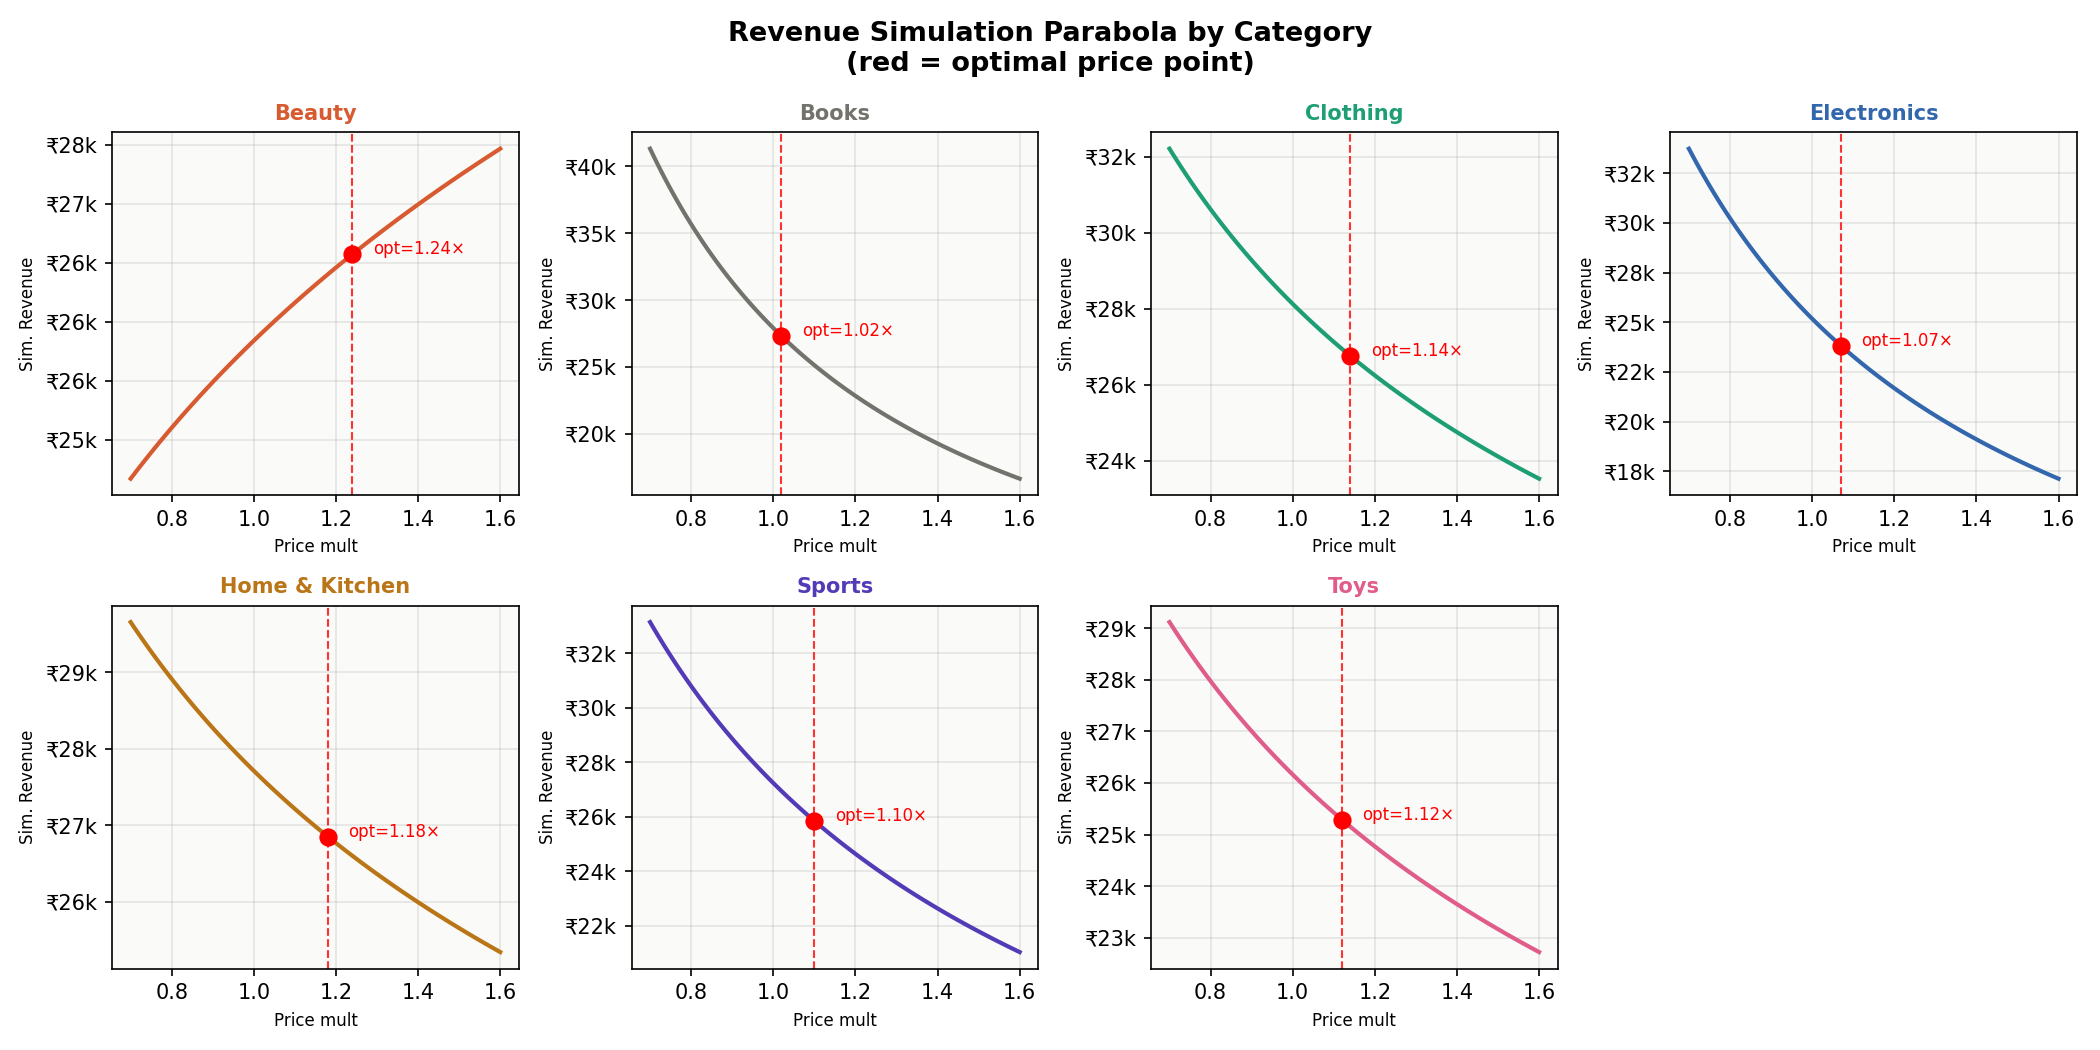
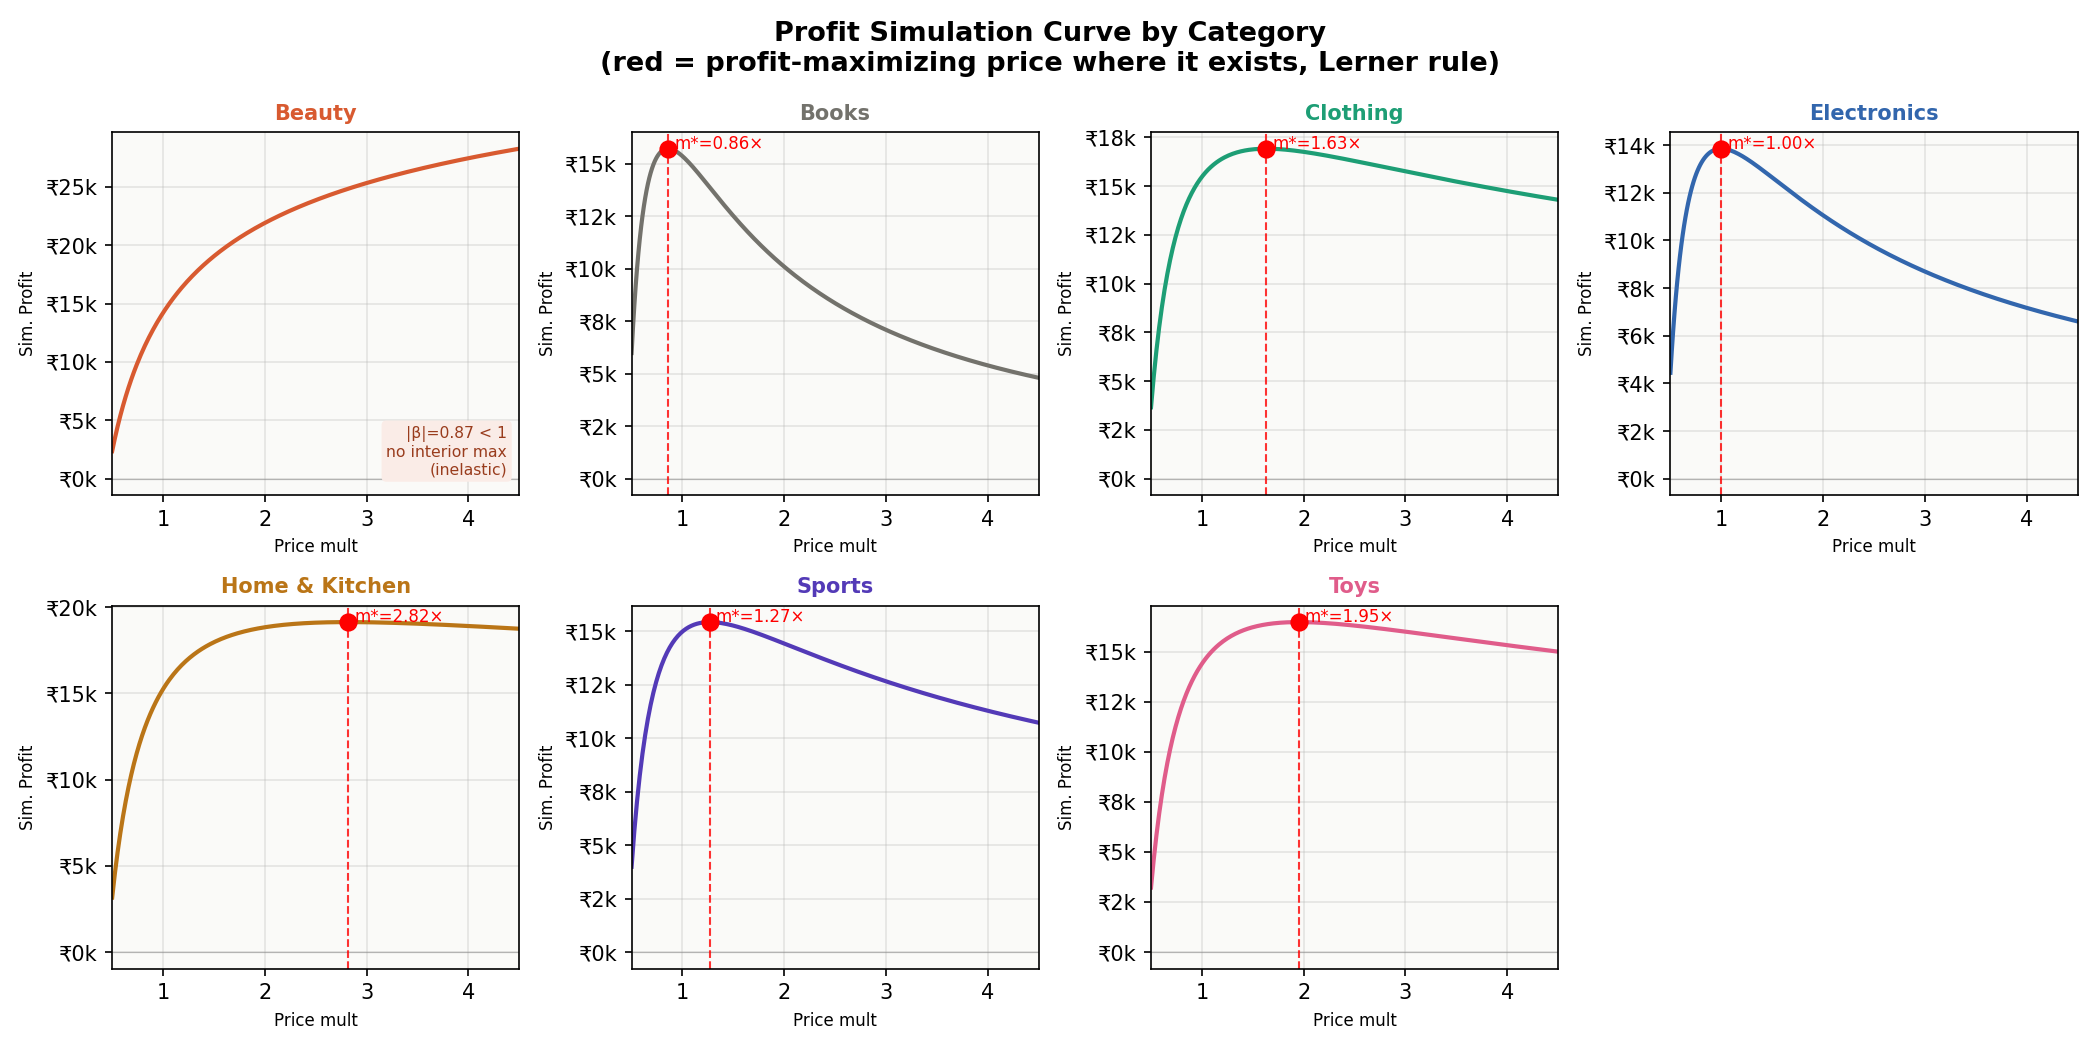
ud

diff --git a/scr/analysis.py b/scr/analysis.py
@@ -2,6 +2,7 @@
 import warnings
 warnings.filterwarnings("ignore")
 
+# Fix path — đảm bảo Python tìm thấy các file cùng thư mục
 import sys
 import os
 sys.path.append(os.path.dirname(os.path.abspath(__file__)))
@@ -68,6 +69,10 @@ def load_pipeline(data_path: str = DATA_PATH):
     df["optimal_price_est"] = (df["price"] * df["optimal_mult"]).round(2)
     return df, elasticities
 
+
+# ══════════════════════════════════════════════════════════════════════════════
+# CHART 1 — Price elasticity by category (horizontal bar + CI)
+# ══════════════════════════════════════════════════════════════════════════════
 
 def plot_elasticity(df):
     cats   = list(ELASTICITY_PRIOR.keys())
@@ -172,9 +177,19 @@ def plot_cr_vs_price(df):
 # ══════════════════════════════════════════════════════════════════════════════
 
 def plot_revenue_parabola(df):
+    """
+    Profit simulation curve by category.
+
+    Profit(m) = (P0*m - c) * (v0 * m^beta),  c = COST_RATIO * P0
+
+    Unlike revenue (which is monotonic for constant elasticity), profit
+    is a true concave curve (parabola-like) with an interior maximum.
+    The maximizing multiplier m* matches the Lerner-rule optimal price
+    P* = c / (1 + 1/beta)  =>  m* = P*/P0, marked in red.
+    """
     avg_price = df.groupby("Category")["price"].mean()
     avg_vol   = df.groupby("Category")["purchase_count"].mean()
-    mults     = np.linspace(0.7, 1.6, 100)
+    mults     = np.linspace(0.5, 4.5, 300)
 
     fig, axes = plt.subplots(2, 4, figsize=(14, 7))
     axes = axes.flatten()
@@ -184,27 +199,57 @@ def plot_revenue_parabola(df):
         beta  = ELASTICITY_PRIOR[cat]
         p0    = avg_price.get(cat, 200)
         v0    = avg_vol.get(cat, 100)
-        opt_m = OPTIMAL_MULT[cat]
+        c     = COST_RATIO * p0
 
-        revenues = [p0 * m * v0 * (m ** beta) for m in mults]
-        opt_rev  = p0 * opt_m * v0 * (opt_m ** beta)
+        # Profit(m) = (p0*m - c) * v0 * m^beta
+        profits = (p0 * mults - c) * v0 * (mults ** beta)
 
-        ax.plot(mults, revenues, color=CAT_COLORS[cat], linewidth=2)
-        ax.axvline(opt_m, color="red", linestyle="--", linewidth=1, alpha=0.8)
-        ax.scatter([opt_m], [opt_rev], color="red", zorder=5, s=60)
-        ax.annotate(f"opt={opt_m:.2f}×", xy=(opt_m, opt_rev),
-                    xytext=(opt_m + 0.05, opt_rev),
-                    fontsize=8, color="red")
+        ax.plot(mults, profits, color=CAT_COLORS[cat], linewidth=2)
+        ax.axhline(0, color="gray", linewidth=0.6, alpha=0.5)
+
+        if beta < -1:
+            # Interior maximum exists (Lerner rule): P* = c / (1 + 1/beta)
+            p_star = c / (1 + 1 / beta)
+            m_star = p_star / p0
+
+            if 0.5 <= m_star <= 4.5:
+                profit_star = (p0 * m_star - c) * v0 * (m_star ** beta)
+                ax.axvline(m_star, color="red", linestyle="--", linewidth=1, alpha=0.8)
+                ax.scatter([m_star], [profit_star], color="red", zorder=5, s=60)
+                ax.annotate(f"m*={m_star:.2f}\u00d7", xy=(m_star, profit_star),
+                            xytext=(m_star + 0.06, profit_star),
+                            fontsize=8, color="red")
+            else:
+                # Mathematical optimum lies outside the realistic pricing
+                # range; profit is still increasing/decreasing monotonically
+                # within [0.5, 2.0].
+                ax.text(0.97, 0.05,
+                        f"m*={m_star:.2f}\u00d7 (outside range)\n"
+                        f"|\u03b2|={abs(beta):.2f}",
+                        transform=ax.transAxes, ha="right", va="bottom",
+                        fontsize=7.5, color="#185FA5",
+                        bbox=dict(boxstyle="round,pad=0.3", fc="#E6F1FB", ec="none"))
+        else:
+            # |beta| < 1: inelastic demand -> profit increases monotonically
+            # over this range; no interior maximum (demand too unresponsive).
+            ax.text(0.97, 0.05,
+                    f"|\u03b2|={abs(beta):.2f} < 1\nno interior max\n(inelastic)",
+                    transform=ax.transAxes, ha="right", va="bottom",
+                    fontsize=7.5, color="#993C1D",
+                    bbox=dict(boxstyle="round,pad=0.3", fc="#FAECE7", ec="none"))
+
         ax.set_title(cat, fontsize=10, fontweight="bold", color=CAT_COLORS[cat])
         ax.set_xlabel("Price mult", fontsize=8)
-        ax.set_ylabel("Sim. Revenue", fontsize=8)
+        ax.set_ylabel("Sim. Profit", fontsize=8)
         ax.yaxis.set_major_formatter(mticker.FuncFormatter(
             lambda v, _: f"₹{v/1000:.0f}k"))
+        ax.set_xlim(0.5, 4.5)
         ax.grid(alpha=0.3)
         ax.set_facecolor("#fafaf8")
 
     axes[-1].set_visible(False)
-    fig.suptitle("Revenue Simulation Parabola by Category\n(red = optimal price point)",
+    fig.suptitle("Profit Simulation Curve by Category\n"
+                  "(red = profit-maximizing price where it exists, Lerner rule)",
                  fontsize=13, fontweight="bold")
     fig.tight_layout()
     fig.savefig(CHART_DIR / "03_revenue_parabola.png", dpi=150)

diff --git a/scr/model_training.py b/scr/model_training.py
@@ -1,13 +1,30 @@
-
 import pandas as pd
 import numpy as np
 import joblib
+import matplotlib
+matplotlib.use("Agg")
+import matplotlib.pyplot as plt
+from pathlib import Path
 from sklearn.ensemble import RandomForestRegressor, GradientBoostingRegressor
 from sklearn.model_selection import train_test_split, cross_val_score
 from sklearn.metrics import mean_squared_error, r2_score, mean_absolute_error
 
 from data_preprocessing import load_data, preprocess_data
 from dynamic_pricing import calculate_dynamic_pricing
+
+CHART_DIR = Path("charts")
+CHART_DIR.mkdir(exist_ok=True)
+
+# Display labels for chart (keep FEATURE_COLS as the real column names)
+FEATURE_LABELS = {
+    "log_price":        "Log-price",
+    "discount_pct":     "Discount %",
+    "category_encoded": "Category",
+    "month":            "Month",
+    "day_of_week":      "Day of week",
+    "purchase_count":   "Purchase count",
+    "margin_pct":       "Margin %",
+}
 
 
 # ── Feature config ────────────────────────────────────────────────────────────
@@ -23,6 +40,54 @@ FEATURE_COLS = [
 ]
 
 TARGET_COL = "adjusted_price"   # dynamic price computed by pipeline
+
+
+# ══════════════════════════════════════════════════════════════════════════════
+# CHART 9 — Random Forest Feature Importance
+# ══════════════════════════════════════════════════════════════════════════════
+
+def plot_feature_importance(model, feature_cols, metrics=None):
+    """
+    Horizontal bar chart of RF feature importances, sorted descending.
+    Styled to match charts 01-08 (same facecolor, grid, font sizes).
+    """
+    importances = sorted(
+        zip(feature_cols, model.feature_importances_),
+        key=lambda x: x[1], reverse=True
+    )
+    feats  = [FEATURE_LABELS.get(f, f) for f, _ in importances]
+    scores = [s for _, s in importances]
+
+    fig, ax = plt.subplots(figsize=(9, 5))
+    y = np.arange(len(feats))
+
+    # Single accent color for the dominant feature, muted gray for the rest
+    colors = ["#3266ad"] + ["#9aa3ad"] * (len(feats) - 1)
+
+    ax.barh(y, scores, color=colors, height=0.6, zorder=3)
+    ax.invert_yaxis()  # largest importance on top
+
+    for i, s in enumerate(scores):
+        ax.text(s + max(scores) * 0.015, i, f"{s:.1%}",
+                va="center", ha="left", fontsize=9.5, fontweight="bold",
+                color="#222")
+
+    ax.set_yticks(y)
+    ax.set_yticklabels(feats, fontsize=11)
+    ax.set_xlabel("Importance (Gini)", fontsize=11)
+
+    title = "Random Forest Feature Importance\n(target: adjusted_price)"
+    if metrics:
+        title += f" · R\u00b2={metrics['r2']:.3f}"
+    ax.set_title(title, fontsize=13, fontweight="bold")
+
+    ax.set_xlim(0, max(scores) * 1.18)
+    ax.grid(axis="x", alpha=0.3)
+    ax.set_facecolor("#fafaf8")
+    fig.tight_layout()
+    fig.savefig(CHART_DIR / "09_feature_importance.png", dpi=150)
+    plt.close()
+    print("✓ Chart 9: feature importance")
 
 
 # ── Main training function ────────────────────────────────────────────────────
@@ -100,6 +165,8 @@ def train_model(
     for feat, imp in importances:
         bar = "█" * int(imp * 40)
         print(f"  {feat:<22} {bar} {imp:.3f}")
+
+    plot_feature_importance(model, FEATURE_COLS, metrics)
 
     # Save
     joblib.dump({"model": model, "features": FEATURE_COLS}, save_path)